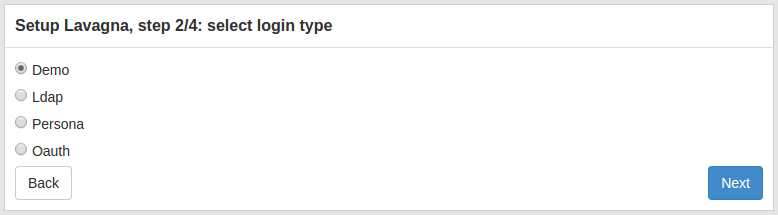
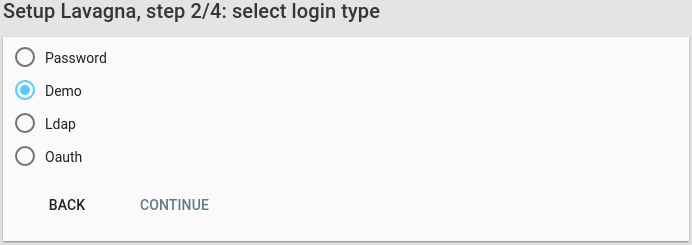
update setup doc, fix style in setup 3/4 step

diff --git a/src/main/webapp/setup/components/third-step/third-step.html b/src/main/webapp/setup/components/third-step/third-step.html
@@ -1,5 +1,5 @@
 <h1 class="md-title">Setup Lavagna, step 3/4: insert admin user</h1>
-<md-content md-wireframe="1" class="lvg-login__margin-bottom">
+<md-content md-whiteframe="1" class="lvg-login__margin-bottom">
     <form name="userForm" ng-submit="$ctrl.saveUser()">
         <div class="lvg-login__padding">
             <p ng-if="$ctrl.authMethod == 'PASSWORD'">Password protected account: insert username and password.</p>

diff --git a/src/main/stampo/doc/02-install/02-03-setup.en.peb.md b/src/main/stampo/doc/02-install/02-03-setup.en.peb.md
@@ -15,9 +15,16 @@ The following page will be shown:
 
 Lavagna does **not** store the user credentials by design: an external provider must be chosen. There are 3 possible choice:
 
+ - password
  - demo (use for test purpose only)
  - ldap
  - oauth
+ 
+#### Password provider
+
+If you want to manage your accounts inside lavagna.
+
+<img class="pure-img" src="{{relativeRootPath}}/images/en/c02_install_step_2_password.png" alt="Password provider">
  
 #### Demo provider
 
